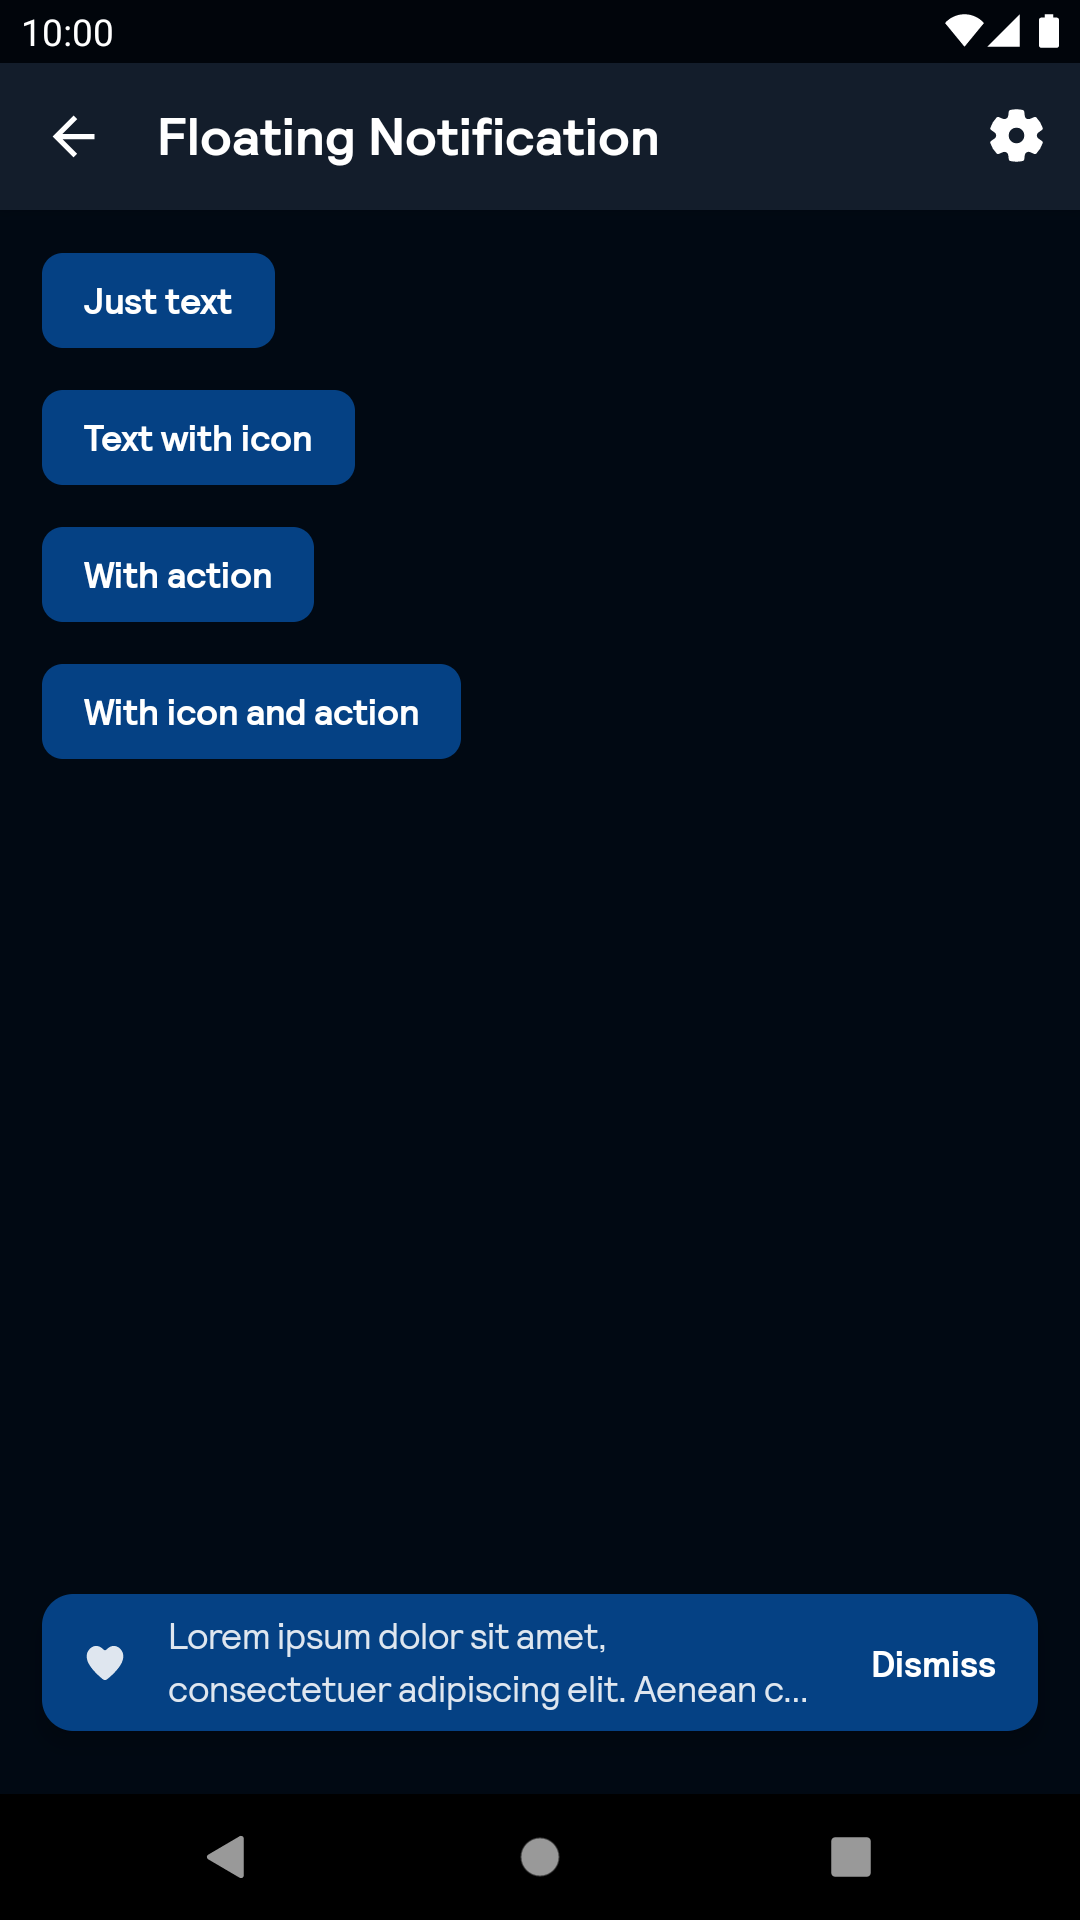
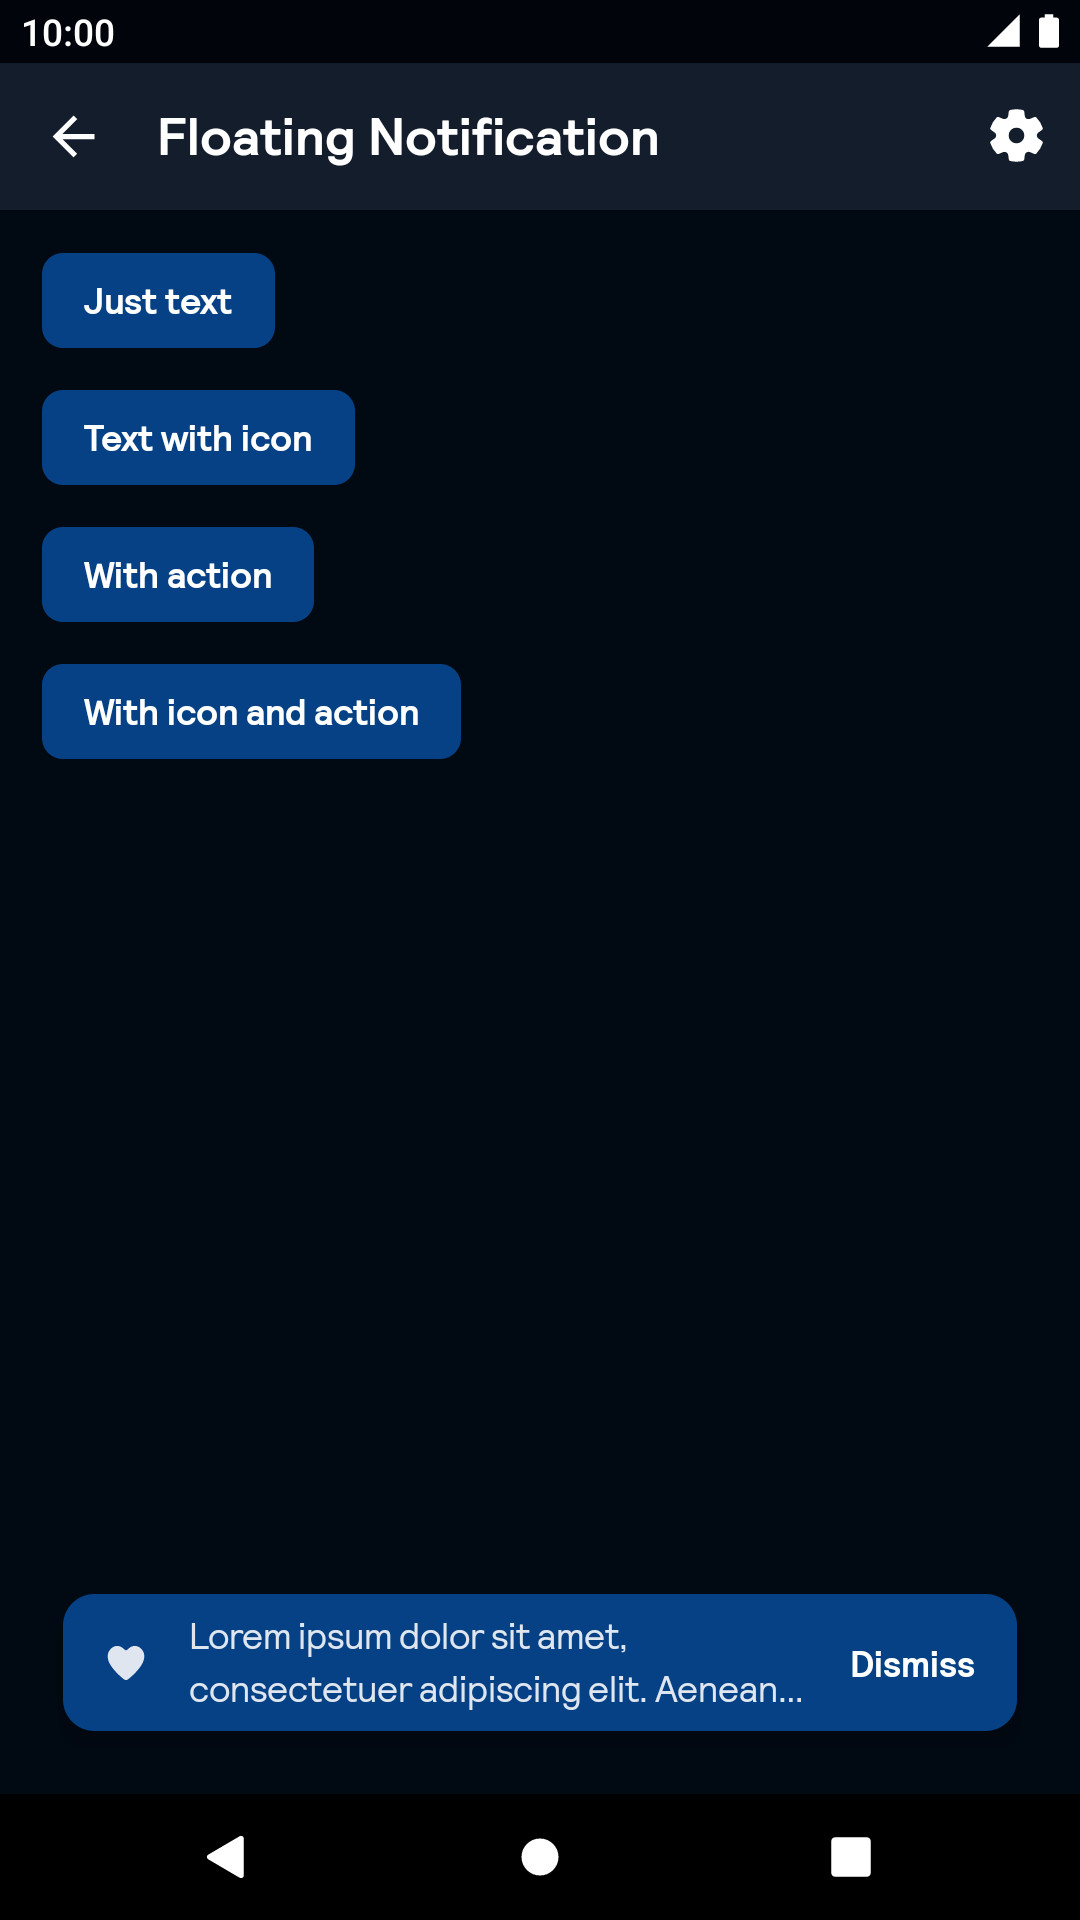
SONIC-1230 change BpkFloatingNotification side margins to BpkSpacing.Lg

diff --git a/backpack-compose/src/main/kotlin/net/skyscanner/backpack/compose/floatingnotification/BpkFloatingNotification.kt b/backpack-compose/src/main/kotlin/net/skyscanner/backpack/compose/floatingnotification/BpkFloatingNotification.kt
@@ -67,7 +67,7 @@ fun BpkFloatingNotification(
     Box(
       modifier = Modifier
         .fillMaxSize()
-        .padding(start = BpkSpacing.Base, end = BpkSpacing.Base, bottom = BpkSpacing.Lg),
+        .padding(start = BpkSpacing.Lg, end = BpkSpacing.Lg, bottom = BpkSpacing.Lg),
       contentAlignment = Alignment.BottomCenter,
     ) {
 
